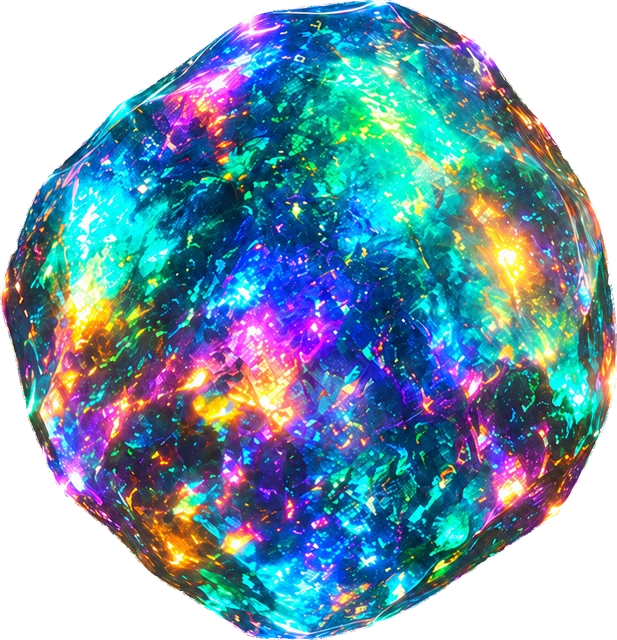
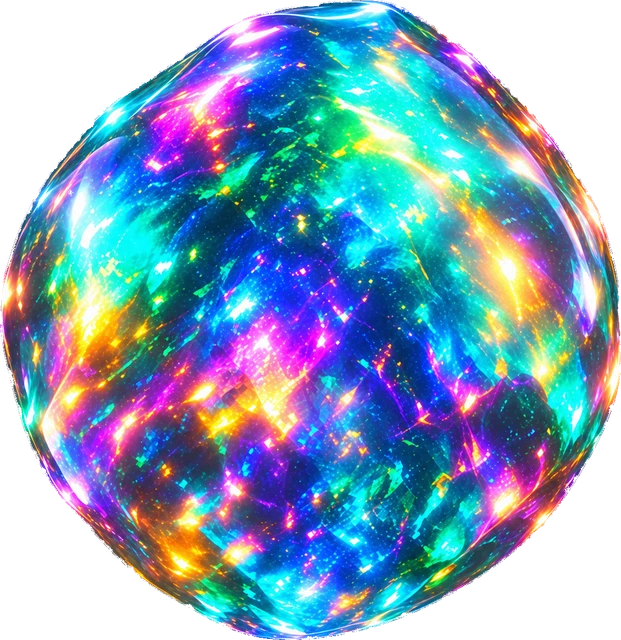
fix(opal): nova pedra lisa/polida + memoiza a animacao de flutuar
- public/opal/stage-3.webp: troca pela nova pedra (mais lisa e
  esferica, menos facetada que a anterior), cortada com o mesmo
  tratamento de alpha contaminado do commit anterior (pixels com alpha
  abaixo de 250 viram totalmente transparentes, sem franja escura).

- OpalCrystal.tsx: wrapperAnim e wrapperTransition (a animacao de
  flutuar) agora sao useMemo. StudyScoreGauge (o gauge da Home)
  re-renderiza a cada quadro por ~1.4s no mount, fazendo o count-up do
  numero de minutos; sem o useMemo, o Framer Motion recebia um objeto
  NOVO de `animate` a cada um desses renders, o que reinicia a
  animacao do zero toda vez em vez de deixar ela completar um ciclo.
  Era plausivelmente a causa de "nao anima" reportada: a animacao
  ficava presa reiniciando, nunca saindo do frame inicial.

diff --git a/src/components/OpalCrystal.tsx b/src/components/OpalCrystal.tsx
@@ -1,7 +1,7 @@
 "use client"
 
 import { motion } from "framer-motion"
-import { useEffect, useId, useRef, useSyncExternalStore } from "react"
+import { useEffect, useId, useMemo, useRef, useSyncExternalStore } from "react"
 
 /**
  * A pedra de opala, nas 4 fases da animação de abertura:
@@ -239,13 +239,25 @@ export function OpalCrystal({
   // A amplitude escala com o tamanho (com um piso de 5px) pra ficar
   // proporcionalmente parecida em qualquer instância, do avatar de 32px do
   // Mentor ao gauge de 132px da Home.
-  const floatAmp = Math.max(5, size * 0.07)
-  const wrapperAnim = {
-    y: [0, -floatAmp, floatAmp * 0.55, -floatAmp * 0.7, 0],
-    rotate: [0, 1.4, -0.9, 0.6, 0],
-  }
+  //
+  // useMemo por `size` (não recalcula a cada render): o StudyScoreGauge
+  // re-renderiza a cada quadro por ~1.4s no mount (count-up do número), e
+  // sem isso o Framer Motion recebia um objeto NOVO de `animate` a cada
+  // desses renders, o que reinicia a animação do zero toda hora, em vez de
+  // deixar ela completar um ciclo. Resultado: parecia travada no frame
+  // inicial mesmo rodando.
+  const wrapperAnim = useMemo(() => {
+    const floatAmp = Math.max(5, size * 0.07)
+    return {
+      y: [0, -floatAmp, floatAmp * 0.55, -floatAmp * 0.7, 0],
+      rotate: [0, 1.4, -0.9, 0.6, 0],
+    }
+  }, [size])
 
-  const wrapperTransition = { duration: 6, repeat: Infinity, ease: "easeInOut" as const }
+  const wrapperTransition = useMemo(
+    () => ({ duration: 6, repeat: Infinity, ease: "easeInOut" as const }),
+    [],
+  )
 
   return (
     <motion.div
